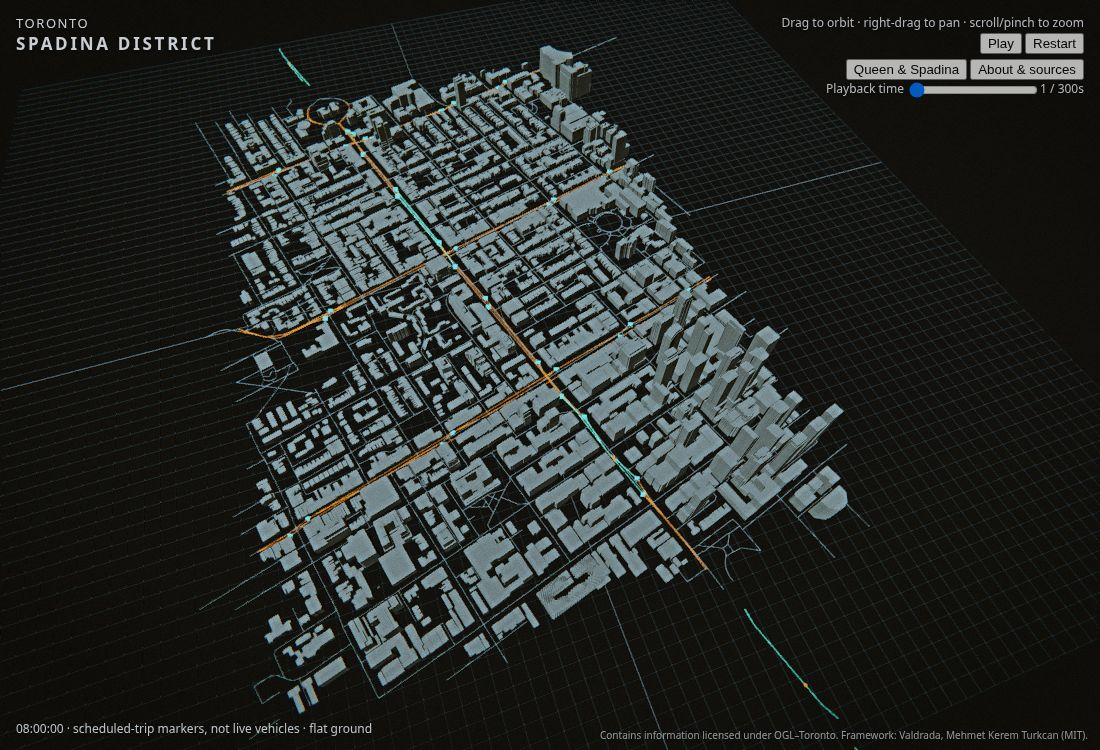
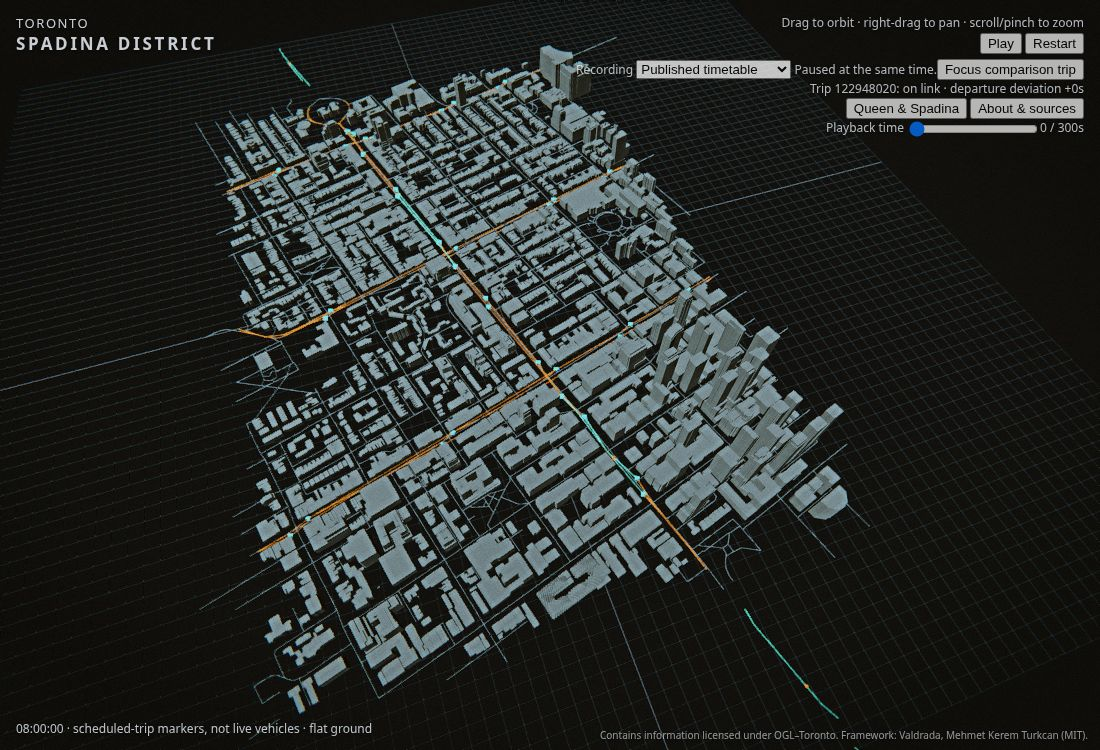
Compare baseline and dwell recordings in the existing Toronto renderer

diff --git a/client/src/toronto/runtime.js b/client/src/toronto/runtime.js
@@ -4,8 +4,8 @@ import { Engine } from '../core/engine.js';
 import { Streamer } from '../world/streamer.js';
 import { ENV } from '../world/materials.js';
 import { assembleMassingTile } from '../world/massingTile.js';
-import { parseTracks, createCoreReplay } from '../replay/coreReplay.js';
-import { scheduledMarkerPool } from '../replay/scheduledMarkers.js';
+import { parseTracks } from '../replay/coreReplay.js';
+import { recordingSession, assertComparable } from './recordingSession.js';
 import { applyIdentity } from '../shared/identity.js';
 import { PROFILE } from './profile.js';
 import { addDemoControls } from './demoControls.js';
@@ -13,10 +13,13 @@ import { localFrame } from '../shared/localFrame.js';
 import { clock } from './transit.js';
 import manifest from '../../.generated/toronto/manifest.json';
 import network from '../../.generated/toronto/network.json';
-import { addServiceGraph } from './serviceGraphScene.js';
+
 import { addSourceNetwork } from './networkScene.js';
 const tileUrls=Object.fromEntries(Object.entries(import.meta.glob('../../.generated/toronto/*.bin',{eager:true,query:'?url&no-inline',import:'default'})).map(([file,url])=>[file.split('/').at(-1),url]));
 import tracksUrl from '../../.generated/toronto/tracks.atrk?url';
+import baselineUrl from '../../.generated/toronto/tracks-baseline.atrk?url';
+import dwellUrl from '../../.generated/toronto/tracks-dwell.atrk?url';
+import comparison from '../../../tools/toronto/scenarios/510-stop-dwell.json';
 export async function start() {
   const query=new URLSearchParams(location.search);
   if(['tiles','cells','lod16'].some(k=>query.has(k))) throw new Error('Toronto selects its own verified tile and asset profile');
@@ -27,18 +30,17 @@ export async function start() {
   document.querySelector('#credits').textContent='Contains information licensed under OGL–Toronto. Framework: Valdrada, Mehmet Kerem Turkcan (MIT).';
   document.querySelector('#loading p').textContent='Loading Toronto data';
   const response=await fetch(tracksUrl);if(!response.ok)throw new Error(`Actor tracks: HTTP ${response.status}`);
-  const tracks=parseTracks(await response.arrayBuffer()), h=tracks.header;
-  if(h.profile?.id!==PROFILE.id || h.profile.geoOrigin.lat!==PROFILE.geoOrigin.lat || h.profile.geoOrigin.lon!==PROFILE.geoOrigin.lon || h.rendering?.assetProfile!=='toronto-massing-scheduled' || h.rendering?.browserReplay!=='atrk/1' || h.vehicleKinds.join()!=='scheduled-trip-marker') throw new Error('Actor/asset profile mismatch');
+  let tracks=parseTracks(await response.arrayBuffer()), h=tracks.header;
+  let session=recordingSession(tracks,tracksUrl,PROFILE);
   const engine=new Engine(document.querySelector('#app'));
   engine.scene.background=new THREE.Color(0x182330);
   const streamer=await new Streamer(engine.scene,{manifest,profile:PROFILE,cityOverrides:false,assembleTile:assembleMassingTile,assetUrls:tileUrls}).init();
-  const replay=createCoreReplay(tracks,tracksUrl), traffic=scheduledMarkerPool(engine.scene,h.actors.length);
-  replay.attachTraffic(traffic);
+  let {replay,traffic,serviceGraph}=session;engine.scene.add(session.group);
   engine.camera.position.set(550,800,800);engine.camera.lookAt(0,0,-200);
   const controls=new OrbitControls(engine.camera,engine.renderer.domElement);controls.target.set(0,0,-200);controls.maxDistance=2200;controls.minDistance=30;controls.update();
   const grid=new THREE.GridHelper(2560,80,0x607080,0x344454);grid.position.set(0,-0.1,-256);engine.scene.add(grid);
   const contextGroup=addSourceNetwork(engine.scene,network,PROFILE);
-  const serviceGraph=addServiceGraph(engine.scene,tracks,PROFILE);
+
   document.querySelector('#help').innerHTML='Drag to orbit · right-drag to pan · scroll/pinch to zoom<br><button id="pause-playback">Pause</button> <button id="restart-playback">Restart</button>';
   document.querySelector('#help').style.pointerEvents='auto';
   for(const id of ['cross','tethers'])document.getElementById(id).style.display='none';
@@ -54,7 +56,29 @@ export async function start() {
   document.querySelector('#pause-playback').onclick=togglePause;
   document.querySelector('#restart-playback').onclick=()=>seek(0);
   addEventListener('keydown',e=>{if(document.querySelector('dialog[open]')||/INPUT|BUTTON|SELECT|TEXTAREA/.test(e.target.tagName))return;if(e.code==='Space'){e.preventDefault();togglePause();}if(e.code==='KeyR')seek(0);});
-  demoControls=addDemoControls({seek,setPaused,duration:h.simTime.at(-1),geoFrame:localFrame(PROFILE.geoOrigin),controls,engine,header:h});
+  const reference=h, urls={baseline:baselineUrl,dwell:dwellUrl,custom:tracksUrl},cache=new Map();
+  let mode=h.transitScenario?'custom':'baseline',request=0;
+  cache.set(mode,tracks);
+  const selectRecording=async next=>{
+    if(!Object.hasOwn(urls,next))throw new Error('Unknown recording');
+    const token=++request;setPaused(true);
+    let candidate=cache.get(next);
+    if(!candidate){const r=await fetch(urls[next],{signal:AbortSignal.timeout(15000)});if(!r.ok)throw new Error(`Recording: HTTP ${r.status}`);candidate=parseTracks(await r.arrayBuffer());}
+    if(token!==request)return;
+    assertComparable(reference,candidate.header);setPaused(true);
+    const replacement=recordingSession(candidate,urls[next],PROFILE);
+    try {ENV.time.value=elapsed;replacement.traffic.update(0);replacement.serviceGraph.update(replacement.replay.f);}
+    catch(error){replacement.dispose();throw error;}
+    engine.scene.add(replacement.group);session.dispose();session=replacement;
+    ({tracks,h,replay,traffic,serviceGraph}=session);mode=next;cache.set(next,tracks);
+    Object.assign(window.__APP,{tracks,replay,traffic,serviceGraph});demoControls.setHeader(h);engine.wake();
+  };
+  const comparisonState=()=>{
+    const actor=h.actors.find(a=>a.tripId===comparison.tripId),vehicle=tracks.frames[replay.f]?.veh.find(v=>v.id===actor?.id);
+    const row=serviceGraph.occupancy.find(r=>r[0]===actor?.id),deviation=serviceGraph.deviations.find(d=>d.actorId===actor?.id);
+    return {tripId:comparison.tripId,vehicle,phase:row?(row[1]?'at stop':'on link'):'outside recording time',delay:deviation?.departureDelaySeconds||0};
+  };
+  demoControls=addDemoControls({seek,setPaused,duration:h.simTime.at(-1),geoFrame:localFrame(PROFILE.geoOrigin),controls,engine,header:h,mode,selectRecording,comparisonState});
   window.__APP={engine,renderer:engine.renderer,scene:engine.scene,streamer,replay,traffic,profile:PROFILE,network,contextGroup,serviceGraph,controls,tracks,seek,setPaused};
   engine.onFrame=dt=>{
     if(failed)return;

diff --git a/client/src/toronto/demoControls.js b/client/src/toronto/demoControls.js
@@ -1,9 +1,24 @@
 // Presentation controls for the existing world recording; no alternate simulator.
-export function addDemoControls({seek,setPaused,duration,geoFrame,controls,engine,header}) {
+export function addDemoControls({seek,setPaused,duration,geoFrame,controls,engine,header,mode,selectRecording,comparisonState}) {
   const help=document.querySelector('#help');
   const row=document.createElement('div');row.className='toronto-demo-controls';
   row.innerHTML='<button id="focus-district">Queen &amp; Spadina</button> <button id="about-demo">About &amp; sources</button><br><label for="playback-time">Playback time </label><input id="playback-time" type="range" min="0" step="1" aria-label="Playback time in seconds"><output id="playback-offset"></output>';
   help.append(row);
+  const variants=document.createElement('div');
+  variants.innerHTML='<label for="recording-mode">Recording </label><select id="recording-mode"><option value="baseline">Published timetable</option><option value="dwell">+60s dwell experiment</option></select><span id="recording-status" role="status"></span>';
+  row.prepend(variants);
+  const inspect=document.createElement('button');inspect.id='focus-comparison';inspect.textContent='Focus comparison trip';variants.append(inspect);
+  const detail=document.createElement('div');detail.id='comparison-detail';variants.append(detail);
+  inspect.onclick=()=>{const {vehicle:v}=comparisonState();if(!v)return;setPaused(true);controls.target.set(v.x,0,v.z);engine.camera.position.set(v.x+550,800,v.z+1000);controls.update();engine.wake();};
+  const select=variants.querySelector('select'),status=variants.querySelector('span');
+  if(mode==='custom')select.add(new Option('Build scenario','custom'));
+  select.value=mode;
+  select.onchange=async()=>{
+    select.disabled=true;status.textContent=' Loading recording…';
+    try{await selectRecording(select.value);mode=select.value;status.textContent=' Recording ready.';}
+    catch(error){select.value=mode;status.textContent=` Unable to switch: ${error.message}. Previous recording retained.`;}
+    finally{select.disabled=false;}
+  };
   const slider=row.querySelector('input');slider.max=String(duration);slider.value='0';
   slider.addEventListener('input',()=>{setPaused(true);seek(Number(slider.value));engine.wake();});
   document.querySelector('#focus-district').onclick=()=>{
@@ -19,8 +34,9 @@ export function addDemoControls({seek,setPaused,duration,geoFrame,controls,engin
 <p>Contains information licensed under the <a href="https://open.toronto.ca/open-data-licence/" target="_blank" rel="noopener">Open Government Licence – Toronto</a>. Framework: <a href="https://github.com/mkturkcan/valdrada" target="_blank" rel="noopener">Valdrada</a>, Mehmet Kerem Turkcan (MIT). SixSim is a working name.</p>
 <p><a href="https://github.com/calenirwin/sixsim" target="_blank" rel="noopener">Source and documentation</a> · <a href="https://github.com/calenirwin/sixsim/blob/main/docs/toronto/data-sources.md" target="_blank" rel="noopener">Data-source register</a></p>
 <form method="dialog"><button>Close</button></form>`;
-  dialog.querySelector('#demo-scenario').textContent=header.transitScenario?.extraDwellSeconds?'This recording includes an explicitly modeled +60-second dwell at one stop, propagated downstream without recovery. It is a what-if experiment, not an observed delay.':'This recording follows the published timetable. The shared runtime also supports a fixed extra-dwell experiment.';
+  const setHeader=value=>{header=value;dialog.querySelector('#demo-scenario').textContent=header.transitScenario?.extraDwellSeconds?'This recording includes an explicitly modeled +60-second dwell at one stop, propagated downstream without recovery. It is a what-if experiment, not an observed delay.':'This recording follows the published timetable. Choose the +60s dwell experiment to compare at the same time.';};
+  setHeader(header);
   document.body.append(dialog);
   document.querySelector('#about-demo').onclick=()=>dialog.showModal();
-  return {update(seconds){slider.value=String(Math.round(seconds));row.querySelector('output').textContent=`${Math.round(seconds)} / ${duration}s`;}};
+  return {setHeader,update(seconds){const state=comparisonState();inspect.disabled=!state.vehicle;detail.textContent=`Trip ${state.tripId}: ${state.phase} · departure deviation +${state.delay}s`;slider.value=String(Math.round(seconds));row.querySelector('output').textContent=`${Math.round(seconds)} / ${duration}s`;}};
 }

diff --git a/client/src/toronto/recordingSession.js b/client/src/toronto/recordingSession.js
@@ -1,0 +1,21 @@
+import * as THREE from 'three';
+import { createCoreReplay } from '../replay/coreReplay.js';
+import { scheduledMarkerPool } from '../replay/scheduledMarkers.js';
+import { addServiceGraph } from './serviceGraphScene.js';
+export function assertComparable(reference,candidate) {
+  for(const key of ['serviceDay','timezone','startSeconds','profile','rendering','simTime','transitGraph','massingProvenance','provenance']) {
+    if(JSON.stringify(reference[key])!==JSON.stringify(candidate[key]))throw new Error(`Recording comparison mismatch: ${key}`);
+  }
+}
+// Prepare a complete replacement off-scene. A failed validation leaves the old scene intact.
+export function recordingSession(tracks,url,profile) {
+  const h=tracks.header;
+  if(h.profile?.id!==profile.id||h.profile.geoOrigin.lat!==profile.geoOrigin.lat||h.profile.geoOrigin.lon!==profile.geoOrigin.lon||h.rendering?.assetProfile!=='toronto-massing-scheduled'||h.rendering?.browserReplay!=='atrk/1'||h.vehicleKinds?.join()!=='scheduled-trip-marker')throw new Error('Actor/asset profile mismatch');
+  const group=new THREE.Group();group.name='scheduledRecording';
+  const serviceGraph=addServiceGraph(group,tracks,profile);
+  let traffic;
+  try {
+    const replay=createCoreReplay(tracks,url);traffic=scheduledMarkerPool(group,h.actors.length);replay.attachTraffic(traffic);
+    return {group,tracks,h,replay,traffic,serviceGraph,dispose(){group.removeFromParent();traffic.dispose();serviceGraph.dispose();}};
+  } catch(error){traffic?.dispose();serviceGraph.dispose();throw error;}
+}

diff --git a/client/src/toronto/serviceGraphScene.js b/client/src/toronto/serviceGraphScene.js
@@ -43,5 +43,6 @@ export function addServiceGraph(scene,tracks,profile) {
     const active=new Set(state.occupancy.map(r=>r[2]).filter(Boolean));
     for(const [id,mesh] of meshes)mesh.visible=active.has(id);
   }};
+  state.dispose=()=>{scene.remove(group);for(const mesh of meshes.values())mesh.geometry.dispose();material.dispose();};
   return state;
 }

diff --git a/docs/toronto/demo.md b/docs/toronto/demo.md
@@ -11,7 +11,8 @@ The browser uses the same tiled geometry, geographic frame and recorded actors a
 1. Open the main application using the instructions below. Choose **Queen & Spadina** to focus on the district. Drag to orbit, right-drag or use two fingers to pan, and scroll/pinch to zoom.
 2. Watch the orange scheduled-trip symbols. Grey lines are City centrelines, ochre lines are GTFS service paths, blue points are stops, and teal links show occupied directed service links.
 3. **Pause** and move the **Playback time** slider from 0 to 120 seconds. The slider pauses playback so that positions and occupancy can be inspected at a fixed time. Arrow keys move it by one second. **Restart** returns to the beginning.
-4. Open **About & sources** for coverage, controls, source attribution and the distinction between measured records and modeled positions. Close it or press Escape to return to the city.
+4. Seek to **70 seconds** and choose **+60s dwell experiment** under **Recording**. Switching pauses at the same time and preserves the camera. Choose **Focus comparison trip**: the targeted trip holds at Willcocks Street while its baseline counterpart is already on a service link. Switch back to **Published timetable** to compare. The readout reports graph phase and modeled departure deviation; other trips are unchanged.
+5. Open **About & sources** for coverage, controls, source attribution and the distinction between measured records and modeled positions. Close it or press Escape to return to the city.
 
 The recording runs from 08:00 to 08:05 on the pinned **2026-10-22 service day**, in **America/Toronto**. It stops after five minutes. The source timetable includes service times after 24:00, even though this short recording shows the morning.
 
@@ -39,13 +40,15 @@ npm --prefix client run dev:city
 
 Open the URL printed by Vite with `?city=toronto`. This regenerates the five-minute recording from the inherited world and opens its main renderer; no bulk data download, new credentials or backend is needed.
 
-To inspect the extra-dwell experiment instead:
+The selector uses two world-generated recordings included in the static package. A failed or incompatible load retains the previous recording and displays an error. The comparison is finite playback, not a live connection to the API.
+
+To choose a different valid build-time scenario as the initial recording:
 
 ```sh
 TORONTO_TRANSIT_SCENARIO=tools/toronto/scenarios/510-stop-dwell.json npm --prefix client run dev:city
 ```
 
-The scenario adds 60 seconds at Spadina Avenue / Willcocks Street for one specified trip. It is labeled in the clock and source panel. Willcocks is just north of the building crop; transit coverage extends there. Other trips remain unchanged. See [the scenario contract](vision.md#fixed-extra-dwell-experiment) for exact inputs, timing and API access.
+The included comparison scenario adds 60 seconds at Spadina Avenue / Willcocks Street for one specified trip. It is labeled in the clock and source panel. Willcocks is just north of the building crop; transit coverage extends there. Other trips remain unchanged. See [the scenario contract](vision.md#fixed-extra-dwell-experiment) for exact inputs, timing and API access.
 
 ## A personal project page and a static Space
 

diff --git a/README.md b/README.md
@@ -55,7 +55,7 @@ npm --prefix client ci --ignore-scripts
 npm --prefix client run dev:city
 ```
 
-This opens the main application with `?city=toronto`. It renders the source buildings and scheduled-trip **symbols**, using the inherited engine, tile streamer and actor-replay pools. Drag to orbit, right-drag or use two fingers to pan, and scroll or pinch to zoom. Grey lines are City centrelines, ochre lines are GTFS service paths and blue points are stops. Teal links show scheduled graph occupancy. Use Pause/Play and Restart, or Space and R on a keyboard. The five-minute ATRK recording runs from 08:00 to 08:05 on the included service day, sampled once per second. It is regenerated from the shared headless world before startup; it is not a live connection to the TCP server. Markers do not represent measured vehicle dimensions or heading. Whole building polygon parts are assigned once to a 512 m tile and retain their boundaries. Source records with invalid geometry or rings below 0.011 m² are listed as exclusions in provenance. Geometry outside the crop and far-distance building substitutes are absent; pan to stream neighbouring tiles. The grid is a coordinate reference rather than measured terrain.
+This opens the main application with `?city=toronto`. It renders the source buildings and scheduled-trip **symbols**, using the inherited engine, tile streamer and actor-replay pools. Drag to orbit, right-drag or use two fingers to pan, and scroll or pinch to zoom. Grey lines are City centrelines, ochre lines are GTFS service paths and blue points are stops. Teal links show scheduled graph occupancy. Use Pause/Play and Restart, or Space and R on a keyboard. The Recording selector compares the published timetable with the +60-second dwell experiment at the same paused time; Focus comparison trip locates the affected marker. The five-minute ATRK recording runs from 08:00 to 08:05 on the included service day, sampled once per second. It is regenerated from the shared headless world before startup; it is not a live connection to the TCP server. Markers do not represent measured vehicle dimensions or heading. Whole building polygon parts are assigned once to a 512 m tile and retain their boundaries. Source records with invalid geometry or rings below 0.011 m² are listed as exclusions in provenance. Geometry outside the crop and far-distance building substitutes are absent; pan to stream neighbouring tiles. The grid is a coordinate reference rather than measured terrain.
 
 `npm --prefix client run build` builds the application. The default browser profile and `node tools/core/serve.mjs --city nyc` retain the inherited NYC path, which requires its separately obtained assets and data. See [the upstream guide](UPSTREAM.md) for those requirements.
 

diff --git a/client/tools/hosting/SPACE_README.md b/client/tools/hosting/SPACE_README.md
@@ -10,11 +10,11 @@ short_description: Toronto source geometry and scheduled transit in the Valdrada
 
 # Toronto city simulation
 
-Explore real City building massing and streets around Spadina with TTC 510 schedule-derived transit playback. Use **Queen & Spadina**, **About & sources**, Pause/Play, Restart and the time slider. Drag to orbit and scroll/pinch to zoom. WebGL2 is required; all rendering runs on your device.
+Explore real City building massing and streets around Spadina with TTC 510 schedule-derived transit playback. Compare **Published timetable** and **+60s dwell experiment** at the same time using the Recording selector and **Focus comparison trip**. Use **Queen & Spadina**, **About & sources**, Pause/Play, Restart and the time slider. Drag to orbit and scroll/pinch to zoom. WebGL2 is required; all rendering runs on your device.
 
 This is a bounded Toronto adaptation of [Valdrada](https://github.com/mkturkcan/valdrada), created by Mehmet Kerem Turkcan. [SixSim](https://github.com/calenirwin/sixsim) is the fork's provisional working name, maintained by Calen Irwin.
 
-The five-minute recording uses the pinned 2026-10-22 service day in America/Toronto. Buildings cover about 2.15 km²; route coverage extends beyond them. Moving symbols are scheduled positions, not live vehicle observations, surveyed track positions or interacting traffic. Ground is flat. An extra-dwell scenario, when selected at build time, is labeled in the application.
+The five-minute recording uses the pinned 2026-10-22 service day in America/Toronto. Buildings cover about 2.15 km²; route coverage extends beyond them. Moving symbols are scheduled positions, not live vehicle observations, surveyed track positions or interacting traffic. Ground is flat. The included extra-dwell comparison is explicitly labeled; it changes one trip and is a what-if model, not an observed delay.
 
 Code is MIT; documentation and data retain their separate terms in [component licensing](LICENSING.md.txt). Contains information licensed under the Open Government Licence – Toronto. [Source provenance](DATA_SOURCES.json), [upstream acknowledgements](ACKNOWLEDGEMENTS.md.txt), and the [code licence](LICENSE.txt) accompany this package. No City or TTC endorsement is implied.
 

diff --git a/docs/toronto/vision.md b/docs/toronto/vision.md
@@ -73,4 +73,4 @@ TORONTO_TRANSIT_SCENARIO=tools/toronto/scenarios/510-stop-dwell.json npm run ser
 TORONTO_TRANSIT_SCENARIO=tools/toronto/scenarios/510-stop-dwell.json npm --prefix client run dev:city
 ```
 
-Relative scenario paths resolve from the repository root. Omitting the environment variable selects the unchanged baseline. Inputs are copied and frozen when the world is created; changing the file requires rebuilding/restarting. The API exposes the scenario and scheduled arrival/departure deviations in `transit.get_state`; active targeted actors report the relevant stop occurrence's deviation. ATRK records the same inputs, deviations and resulting occupancy. The browser identifies the experiment explicitly. This tests schedule perturbation only: it does not model passenger exchange, vehicle conflicts, traffic signals or observed delays.
+Relative scenario paths resolve from the repository root. Omitting the environment variable selects the unchanged baseline. Inputs are copied and frozen when the world is created; changing the file requires rebuilding/restarting. The API exposes the scenario and scheduled arrival/departure deviations in `transit.get_state`; active targeted actors report the relevant stop occurrence's deviation. ATRK records the same inputs, deviations and resulting occupancy. The browser identifies the experiment explicitly. Its Recording selector compares the published timetable and the included +60-second scenario at the same paused time, preserving the camera. Both recordings come from the same world exporter; mismatched clocks, profiles, source provenance or service graphs are rejected before replacement. The previous recording remains usable if loading fails. A separate initial build scenario is labeled as such. This tests schedule perturbation only: it does not model passenger exchange, vehicle conflicts, traffic signals or observed delays.
